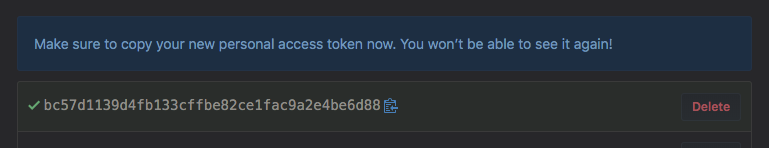
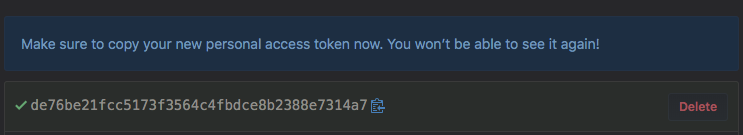
--- Auto-Git Commit ---

diff --git a/Tools/Visual Studio Code/安装配置.md b/Tools/Visual Studio Code/安装配置.md
@@ -131,7 +131,9 @@ git config credential.helper osxkeychain
 
 安装完要重启VS Code
 
- 提供了通过 github 的 Gist 完成配置同步的功能。但是由于它的教程不完整，导致同步起来会产生省问题。最常见的问题是无法下载配置，提示信息为：
+主要操作可以参考主页
+
+提供了通过 github 的 Gist 完成配置同步的功能。但是由于它的教程不完整，导致同步起来会产生省问题。最常见的问题是无法下载配置，提示信息为：
 
 ```
 Sync : Invalid / Expired GitHub Token. Please generate new token with scopes mentioned in readme. Exception Logged in Console.
@@ -148,9 +150,19 @@ Gist 可以保存上传的配置文件。拉取配置文件需要配置两个 id
 
 还是在 VSCode 中输入命令：Sync:Advanced Options，然后选择 Sync:Edit Extension Local Settings，编辑 syncLocalSettings.json 这个配置文件。这个文件中有一项 token 没有设置（或者是配置的就是以前的过期的token），这里就需要设置为 Token Id。你可以用之前上传配置文件时设置的 Token，也可以再新建一个 Token。创建步骤如下：
 
+打开github,  Settings / Developer settings / Personal access tokens / Generate New Token
 
+选择"gist"
 
-主要操作可以参考主页
+![config](./images/3.png)
+
+![config](./images/4.png)
+
+![config](./images/7.png)
+
+>注意：这里重新生成之后，有关此gist id引用到的地方的token也需要同步更新，否则没办法使用。
+
+拷贝Token
 
 ## 5.1 设置
 
@@ -198,7 +210,7 @@ $HOME/Library/Application Support/Code/User/syncLocalSettings.json, 通过"CMD+S
     "ignoreExtensions": [],
     "gistDescription": "Visual Studio Code Settings Sync Gist",
     "version": 328,
-    "token": "bc57d1139d4fb133cffbe82ce1fac9a2e4be6d88",
+    "token": "ec22232ce57cef42c6c00ba18029e88b6e4e9301",
     "downloadPublicGist": false,
     "supportedFileExtensions": [
         "json",
@@ -217,15 +229,7 @@ $HOME/Library/Application Support/Code/User/syncLocalSettings.json, 通过"CMD+S
 
 ## 5.2 上传配置
 
-打开github,  Settings / Developer settings / Personal access tokens / Generate New Token
 
-选择"gist"
-
-![config](./images/3.png)
-
-![config](./images/4.png)
-
-拷贝Token
 
 在VS Code中, 通过"CMD+Shift+P", 输入"sync", 打开"Sync: 上传配置", 输入上面获得的token, 回车
 
